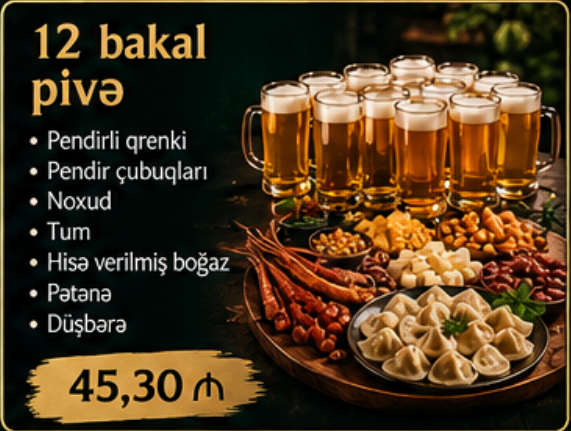
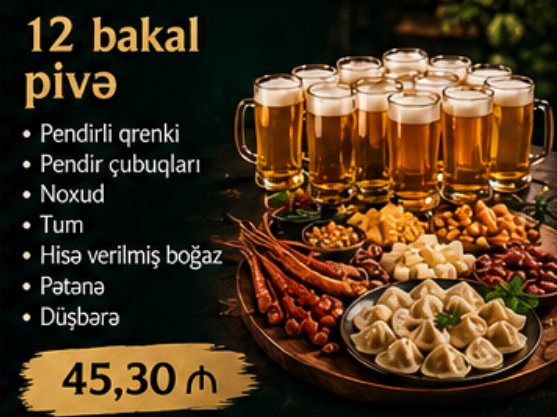
Unify all set frames and preserve full poster content in dialogs

diff --git a/public/style.css b/public/style.css
@@ -26,3 +26,11 @@ body{background:var(--page)}.brand-text>span{color:#73816a}.utility-button{backg
 .dish-title-button{font:inherit;color:inherit;line-height:inherit;letter-spacing:inherit;padding:0;border:0;background:transparent;text-align:left}.dish-title-button:hover{color:#93723a}.text-menu-card{box-shadow:none}.text-menu-card .dish-name{min-height:0}.text-menu-card .dish-description:empty{display:none}.text-menu-card .dish-body{padding:18px}.text-menu-card .dish-price{margin-top:10px}.official-set .dish-image{width:100%;height:auto;aspect-ratio:auto;object-fit:contain;object-position:top;background:transparent}#product-photo>.dish-image[src^="/assets/menu/"]{aspect-ratio:auto;max-height:60dvh;object-fit:contain;background:#061b11}.pending-price{font-size:13px;font-weight:400;color:#8b7755}.menu-documents{display:flex;flex-wrap:wrap;gap:10px;margin:23px 0 0}.menu-documents a{border:1px solid #d8e2cc;background:#fff;color:#667f51;font-size:11px;padding:8px 12px;border-radius:5px}@media(max-width:560px){.official-set .dish-image{aspect-ratio:auto;object-fit:contain}.official-set .dish-name{min-height:0}.text-menu-card .dish-body{padding:14px}.text-menu-card .dish-description{min-height:0}.text-menu-card .dish-price{font-size:18px}.text-menu-card .pending-price{font-size:12px}.menu-documents a{font-size:10px}}
 
 .official-set:hover{transform:none}.official-set .dish-button{background:transparent;flex-shrink:0}
+
+/* Every original panel has one identical frame; contain keeps titles and prices intact. */
+.official-set .dish-button{aspect-ratio:1;display:flex;align-items:center;justify-content:center;box-sizing:border-box;padding:10px;border:1px solid #ba974e;border-radius:8px 8px 0 0;background:#071b10;overflow:hidden}
+.official-set .dish-image{width:100%;height:100%;aspect-ratio:auto;object-fit:contain;object-position:center;background:#071b10;border:0;border-radius:0}
+#product-dialog{max-height:90dvh;overflow:auto}
+#product-photo{aspect-ratio:1;box-sizing:border-box;padding:12px;border:1px solid #ba974e;border-radius:10px 10px 0 0;background:#071b10;display:flex;align-items:center;justify-content:center;overflow:hidden}
+#product-photo>.dish-image[src^="/assets/menu/"]{display:block;width:100%;height:100%;max-height:none;aspect-ratio:auto;object-fit:contain;object-position:center;background:#071b10;border:0;border-radius:0}
+@media(max-width:560px){.official-set .dish-button{padding:6px;border-radius:6px 6px 0 0}#product-photo{padding:10px}}
